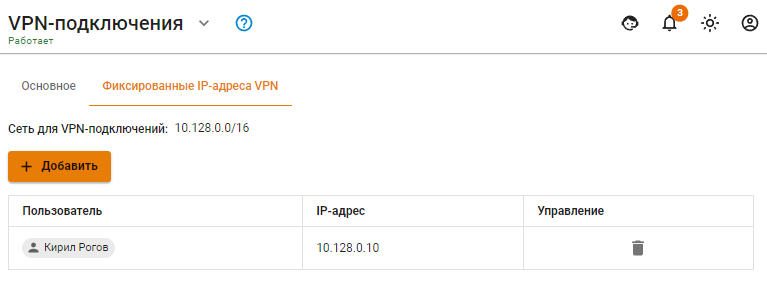
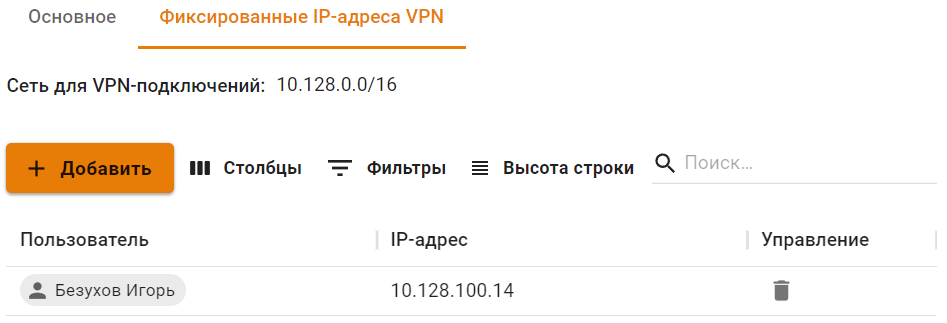
ICS-28181 УТМ. Добавить в ст-ю VPN-подключение информацию по ограничению VPN-сети ICS-28185 УТМ. Описать условия использования нового блока в разделе VPN-подключении

diff --git a/settings/users/authorization/vpn-connection/README.md b/settings/users/authorization/vpn-connection/README.md
@@ -3,9 +3,7 @@
 {% hint style="success" %}
 Название службы раздела **VPN-подключение**: `ideco-accel-l2tp.service`; `ideco-accel-pptp.service`; `ideco-accel-sstp.service`; `ideco-vpn-servers-backend.service`; `ideco-vpn-authd.service`. \
 Список служб для других разделов доступен по [ссылке](../../../server-management/terminal.md).
-{% endhint %}
 
-{% hint style="success" %}
 Инструкция по настройке VPN-подключения через [Ideco Agent клиент для Windows](../../ideco-agent.md).
 {% endhint %}
 
@@ -24,3 +22,35 @@
 **Рекомендуемым в плане скорости и безопасности является протокол IKEv2.**
 
 Вы можете использовать [личный кабинет пользователя](user-lk.md) для раздачи инструкций по созданию пользовательских VPN-подключений.
+
+## Основное
+
+В поле **Сеть для VPN-подключений** указывается подсеть, в рамках которой будут динамически присваиваться IP-адреса. Маска подсети должна быть в диапазоне от 16 до 30.
+
+### Основные настройки
+
+В основных настройках выберите протоколы, по которым смогут подключаться пользователи. Подробнее о настройках в статьях: [PPTP](pptp.md), [PPPoE](pppoe.md), [IKEv2/IPSec](ipsec-ikev2.md), [SSTP](sstp.md) и [L2TP/IPSec](l2tp-ipsec.md).
+
+{% hint style="danger" %}
+Не рекомендуем использовать тип подключения PPTP. Этот способ подключения КРАЙНЕ небезопасен, оставлен исключительно для совместимости со старыми решениями. Используйте IPsec-IKEv2.
+{% endhint %}
+
+{% hint style="info" %}
+Инструкции по настройке VPN-подключений на разных ОС, доступны по [ссылке](../../../../recipes/popular-recipes/README.md).
+{% endhint %}
+
+### Передача маршрутов
+
+Маршруты, переданные Ideco UTM для VPN-клиента, имеют меньшую метрику (т.е. высокий приоритет). Если маршруты VPN-клиентов пересекаются с маршрутами, передаваемыми Ideco UTM, то выберите **Не отправлять** или **Отправлять только указанные**.
+
+![](../../../../.gitbook/assets/vpn1.png)
+
+## Фиксированные IP-адреса VPN
+
+{% hint style="info" %}
+Если создать фиксированную привязку для какого-либо пользователя, то для него будет возможна только одна активная VPN сессия.
+{% endhint %}
+
+Например: хост в локальной сети, к которому могут подключиться пользователи только с определенными IP-адресами. Для предоставления прямого доступа по VPN-подключению к этому хосту, перейдите в раздел **Пользователи -> Авторизация -> Фиксированные IP-адреса VPN**, нажмите **Добавить**, заполните поля **Пользователь** и **IP-адрес** и нажмите **Применить**.
+
+![](../../../../.gitbook/assets/vpn.gif)

diff --git a/SUMMARY.md b/SUMMARY.md
@@ -32,13 +32,12 @@
   * [VPN-подключение](settings/users/authorization/vpn-connection/README.md)
     * [Подключение по PPTP](settings/users/authorization/vpn-connection/pptp.md)
     * [Подключение по PPPoE](settings/users/authorization/vpn-connection/pppoe.md)
-    * [IPsec IKEv2](settings/users/authorization/vpn-connection/ipsec-ikev2.md)
-    * [SSTP](settings/users/authorization/vpn-connection/sstp.md)
-    * [L2TP IPsec](settings/users/authorization/vpn-connection/l2tp-ipsec.md)
+    * [Подключение по IKEv2/IPsec](settings/users/authorization/vpn-connection/ipsec-ikev2.md)
+    * [Подключение по SSTP](settings/users/authorization/vpn-connection/sstp.md)
+    * [Подключение по L2TP/IPsec](settings/users/authorization/vpn-connection/l2tp-ipsec.md)
     * [Личный кабинет пользователя](settings/users/authorization/vpn-connection/user-lk.md)
     * [Особенности маршрутизации и организации доступа](settings/users/authorization/vpn-connection/features.md)
     * [Инструкция по запуску PowerShell скриптов](settings/users/authorization/vpn-connection/running-powershell-scripts.md)
-    * [Фиксированные IP-адреса VPN](settings/users/authorization/fixed-ip-vpn.md)
   * [Двухфакторная аутентификация](settings/users/two-factor-authentication.md)
   * [Ideco агент](settings/users/ideco-agent.md)
   * [Интеграция с Active Directory](settings/users/active-directory/README.md)

diff --git a/settings/users/authorization/vpn-connection/sstp.md b/settings/users/authorization/vpn-connection/sstp.md
@@ -5,7 +5,7 @@ description: >-
   также роутерами Keenetic и другими.
 ---
 
-# SSTP
+# Подключение по SSTP
 
 {% hint style="info" %}
 По возможности не используйте этот тип подключения. Этот способ подключения лучше других проходит через NAT, но при нестабильном качестве связи работает значительно хуже, чем другие VPN (особенно при передаче звука/видео), так как инкапсулирует все данные внутри TCP. Рекомендуется использовать IPsec-IKEv2 вместо SSTP.

diff --git a/settings/users/authorization/vpn-connection/l2tp-ipsec.md b/settings/users/authorization/vpn-connection/l2tp-ipsec.md
@@ -1,4 +1,4 @@
-# L2TP IPsec
+# Подключение по L2TP/IPsec
 
 {% hint style="warning" %}
 По возможности не используйте этот тип подключения. Этот способ подключения может работать нестабильно, обладает огромной избыточностью, низкой производительностью и поддерживает не самое сильное шифрование. Вместо этого рекомендуется IPsec-IKEv2. Все современные ОС поддерживают IKEv2, либо для них есть приложения.

diff --git a/settings/users/authorization/vpn-connection/ipsec-ikev2.md b/settings/users/authorization/vpn-connection/ipsec-ikev2.md
@@ -1,4 +1,4 @@
-# IPsec IKEv2
+# Подключение по IKEv2/IPsec
 
 {% hint style="success" %}
 Данный протокол VPN является предпочтительным и рекомендованным для всех сценариев использования.
